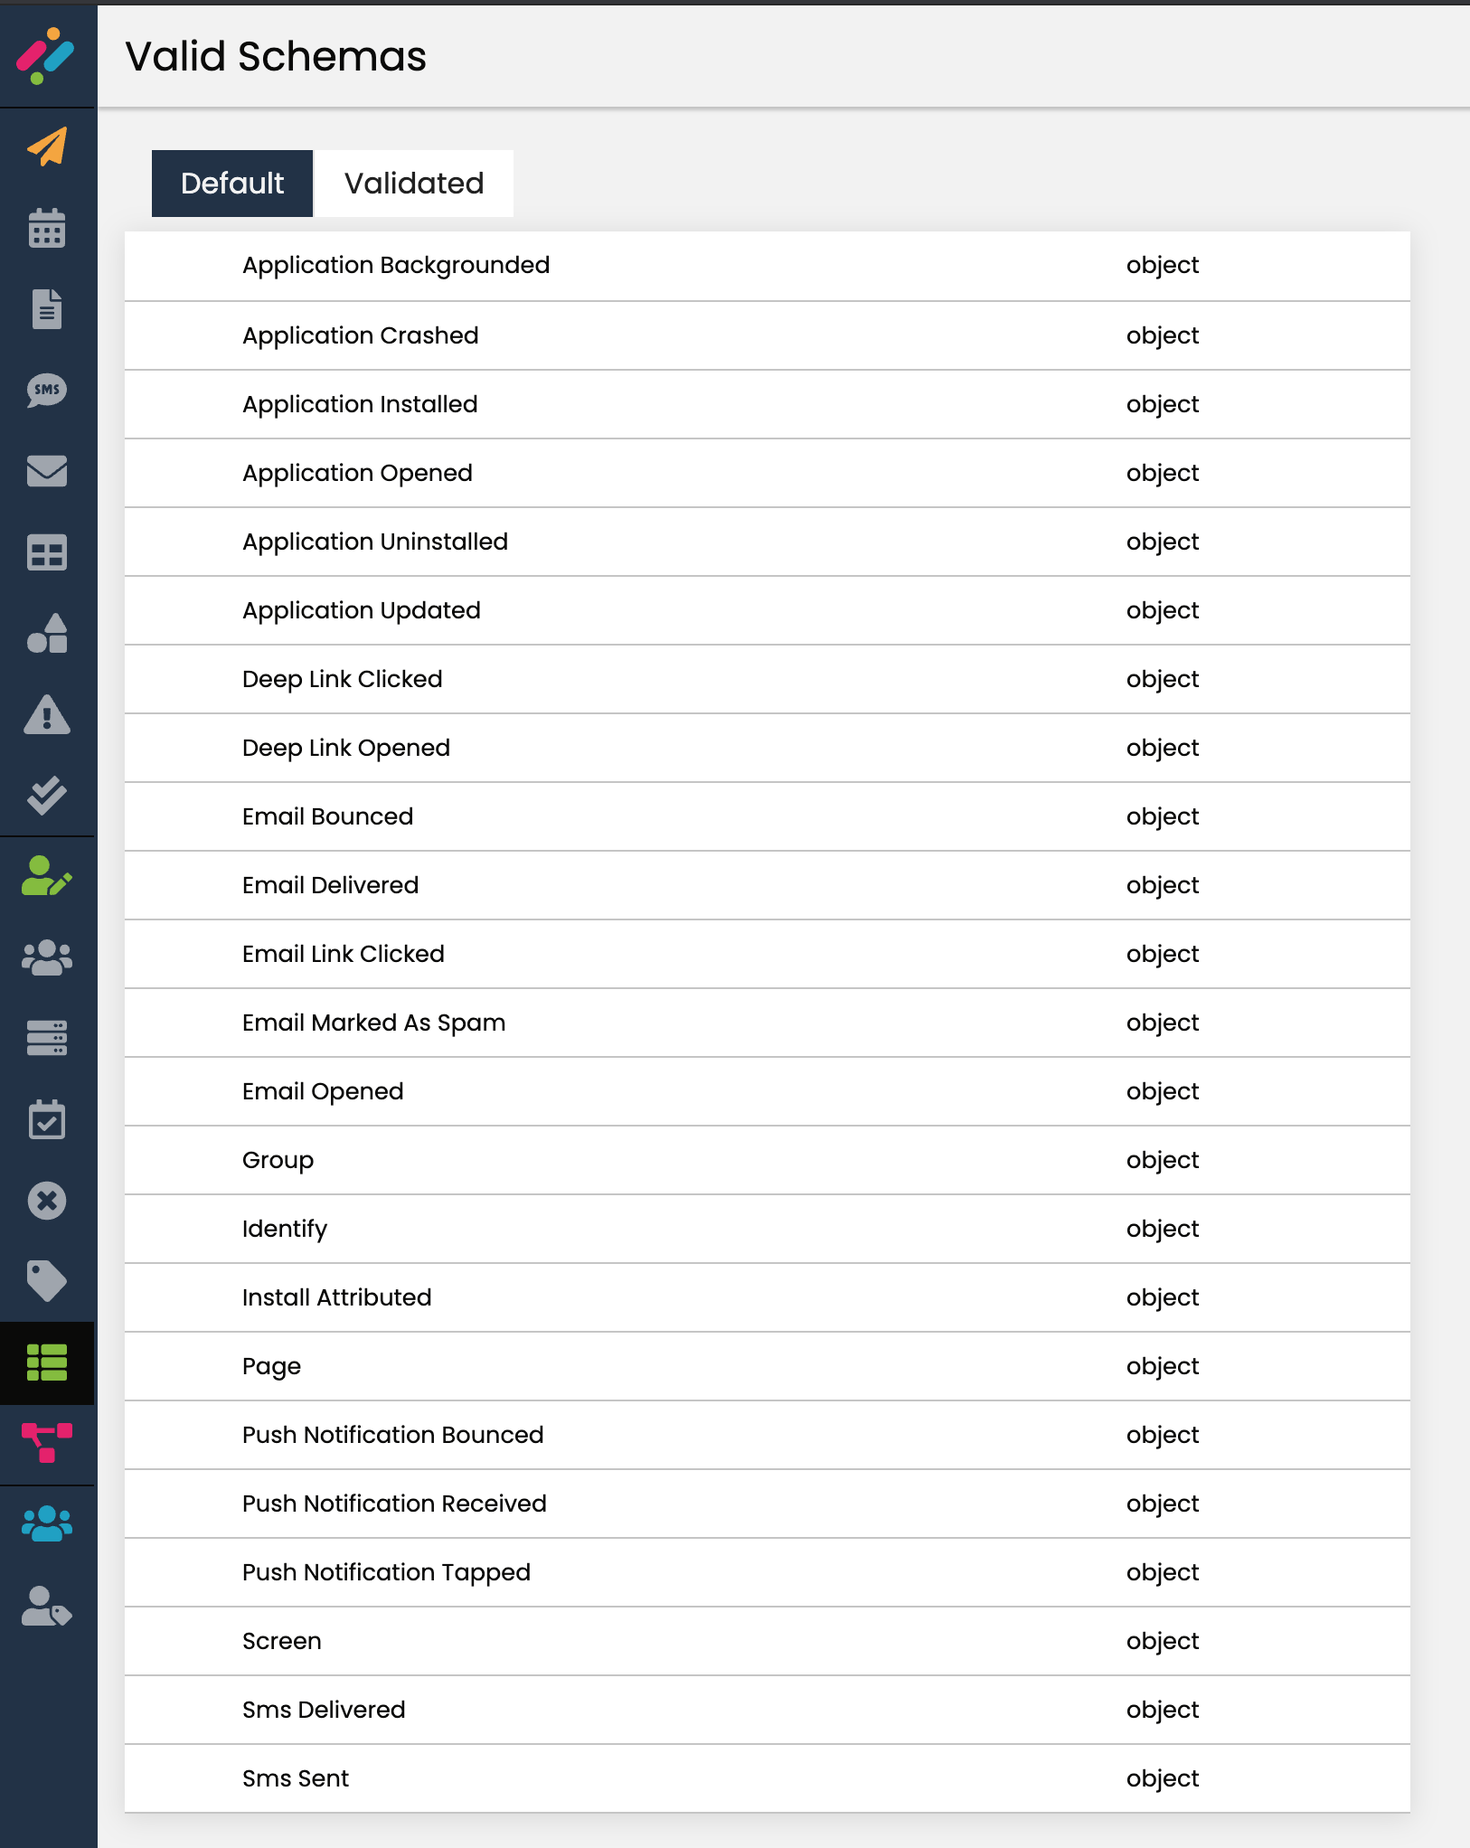
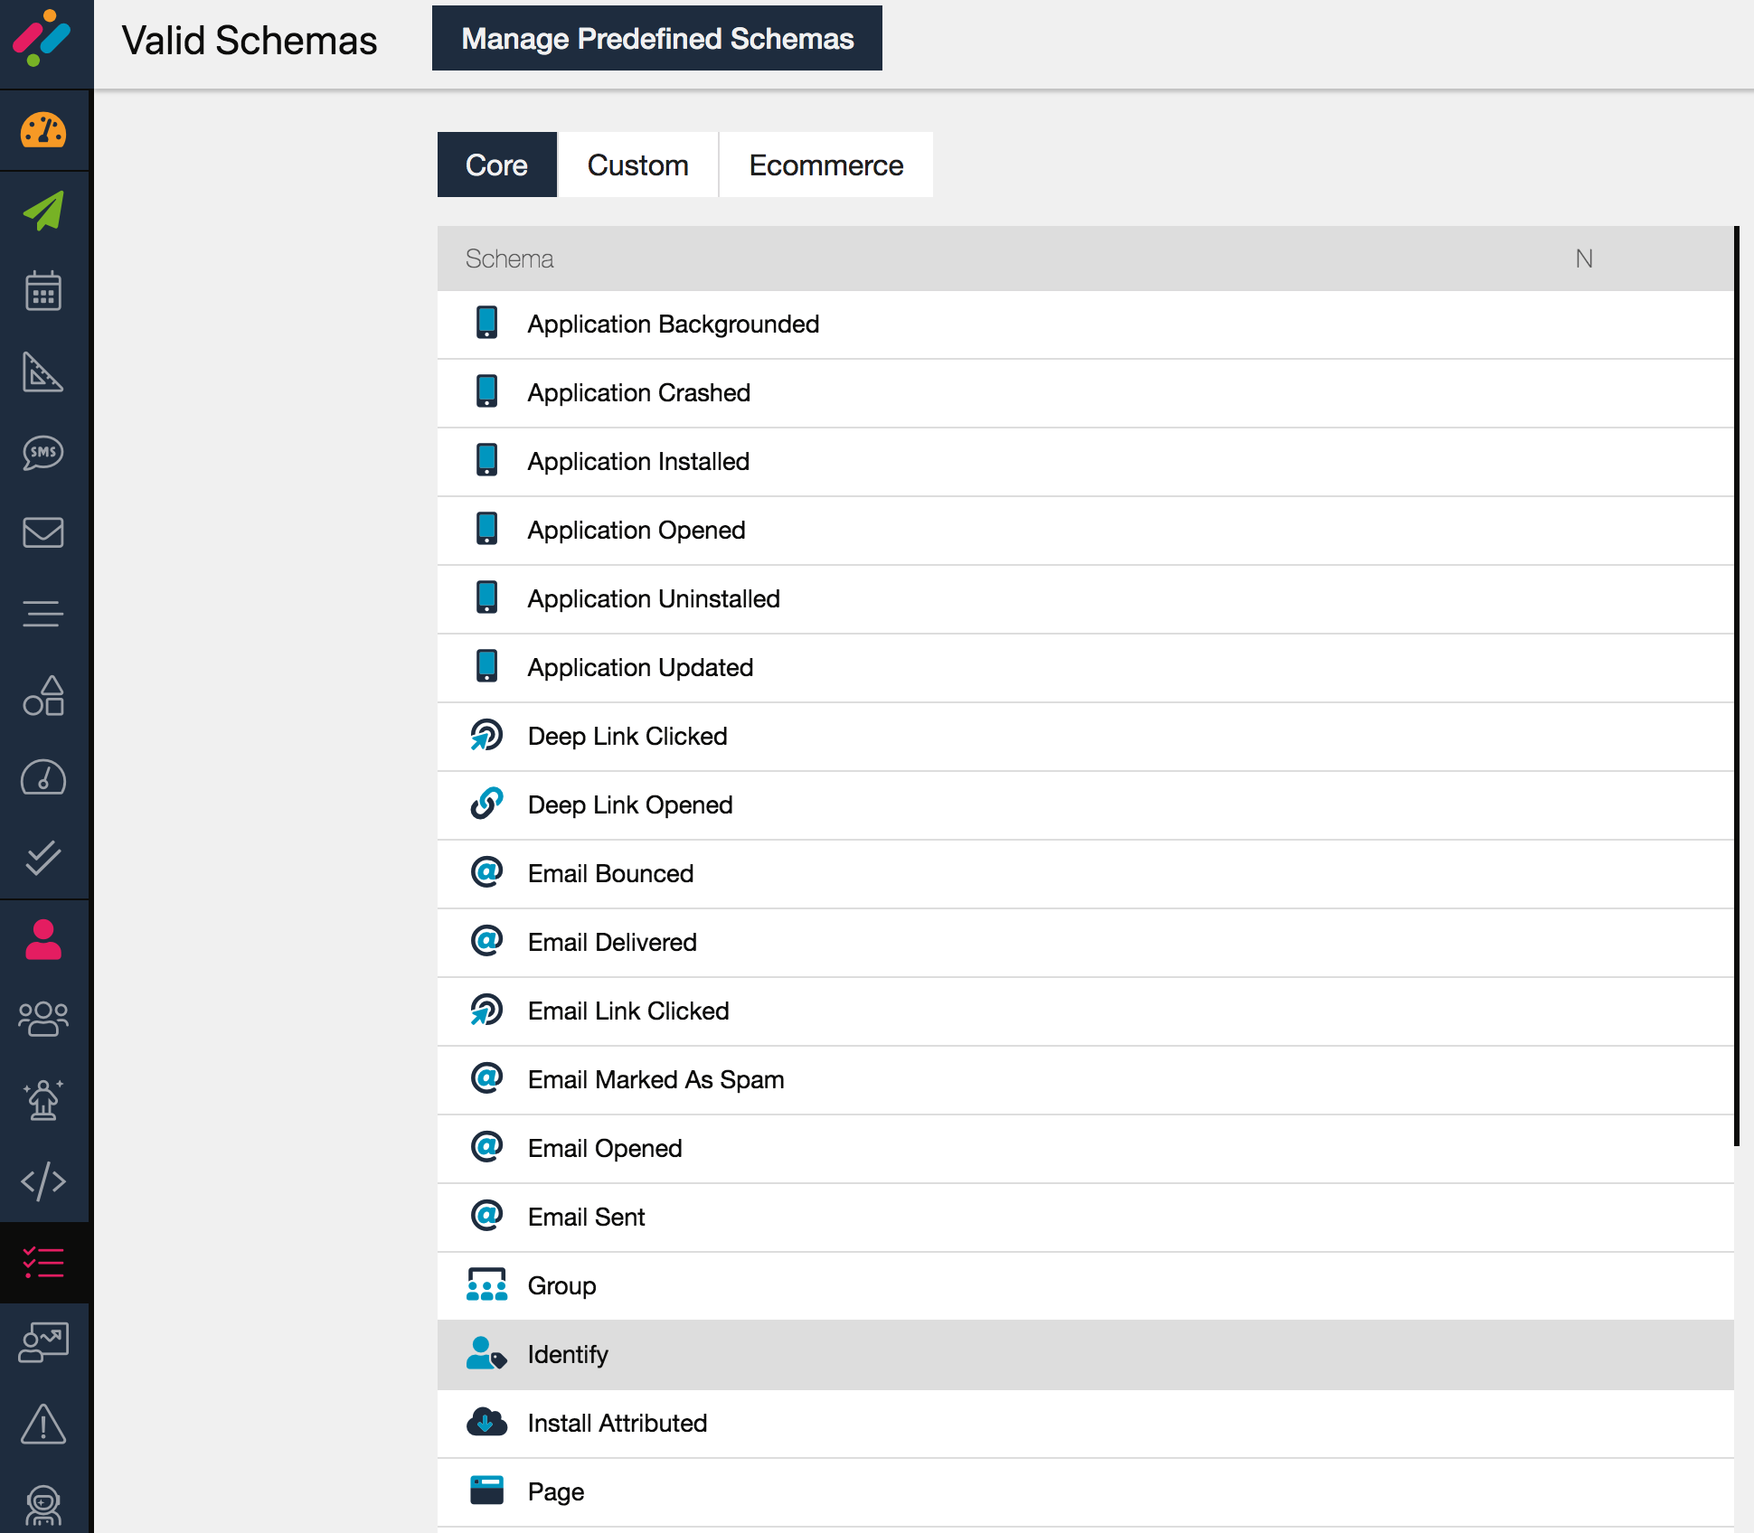
replaced Intielry with Intilery and updated images for schema management

Changed region(s): [[0.0, 0.0, 1.0, 1.0], [0.7688, 0.625, 0.8303, 0.7812]]

diff --git a/docs/schema/b2b.md b/docs/schema/b2b.md
@@ -14,16 +14,38 @@ Most B2B SaaS companies have a few common, core lifecycle events for users and a
 
 The B2B SaaS category has the following semantic events:
 
-- [Account Created](#account-created)
-- [Account Deleted](#account-deleted)
-- [Signed Up](#signed-up)
-- [Signed In](#signed-in)
-- [Signed Out](#signed-out)
-- [Invite Sent](#invite-sent)
-- [Account Added User](#account-added-user)
-- [Account Removed User](#account-removed-user)
-- [Trial Started](#trial-started)
-- [Trial Ended](#trial-ended)
+- [Overview](#overview)
+- [Events](#events)
+  - [Account Created](#account-created)
+    - [Properties](#properties)
+    - [Example](#example)
+  - [Account Deleted](#account-deleted)
+    - [Properties](#properties-1)
+    - [Example](#example-1)
+  - [Signed Up](#signed-up)
+    - [Properties](#properties-2)
+    - [Example](#example-2)
+  - [Signed In](#signed-in)
+    - [Properties](#properties-3)
+    - [Example](#example-3)
+  - [Signed Out](#signed-out)
+    - [Properties](#properties-4)
+    - [Example](#example-4)
+  - [Invite Sent](#invite-sent)
+    - [Properties](#properties-5)
+    - [Example](#example-5)
+  - [Account Added User](#account-added-user)
+    - [Properties](#properties-6)
+    - [Example](#example-6)
+  - [Account Removed User](#account-removed-user)
+    - [Properties](#properties-7)
+    - [Example](#example-7)
+  - [Trial Started](#trial-started)
+    - [Properties](#properties-8)
+    - [Example](#example-8)
+  - [Trial Ended](#trial-ended)
+    - [Properties](#properties-9)
+    - [Example](#example-9)
 
 ### Account Created
 
@@ -130,7 +152,7 @@ This event supports the following semantic properties:
 
 This event should be sent when a user signs in to your service.
 
-**Good to know**: Intielry’s best practice is to use an “Object-Action” naming convention, which in this case would be “User Signed In”. However, because in the B2B case this may not be a specific user, we omit that noun in our example. You may include or omit it as needed for your implementation.
+**Good to know**: Intilery best practice is to use an “Object-Action” naming convention, which in this case would be “User Signed In”. However, because in the B2B case this may not be a specific user, we omit that noun in our example. You may include or omit it as needed for your implementation.
 
 #### Properties
 
@@ -161,7 +183,7 @@ This event supports the following semantic properties:
 
 This event should be sent when a user signs out for your service. You should also call [`analytics.reset()`](/docs/tag/tag1#reset-or-logout) to refresh the cookie when a Signed Out event occurs.
 
-**Good to know**: Intielry’s best practice is to use an “Object-Action” naming convention, which in this case would be “User Signed Out”. However, because in the B2B case this may not be a specific user, we omit that noun in our example. You may include or omit it as needed for your implementation.
+**Good to know**: Intilery's best practice is to use an “Object-Action” naming convention, which in this case would be “User Signed Out”. However, because in the B2B case this may not be a specific user, we omit that noun in our example. You may include or omit it as needed for your implementation.
 
 #### Properties
 

diff --git a/docs/schema/mobile.md b/docs/schema/mobile.md
@@ -16,21 +16,39 @@ The Intilery Native Mobile Spec includes the following semantic events:
 
 **Application Lifecycle Events**
 
-- [Application Installed](#application-installed)
-- [Application Opened](#application-opened)
-- [Application Updated](#application-updated)
-- [Application Backgrounded](#application-backgrounded)
-- [Application Crashed](#application-crashed)
-- [Application Uninstalled](#application-uninstalled)
+- [Overview of Events](#overview-of-events)
+- [Lifecycle Events](#lifecycle-events)
+  - [Application Installed](#application-installed)
+  - [Application Opened](#application-opened)
+  - [Application Backgrounded](#application-backgrounded)
+  - [Application Updated](#application-updated)
+  - [Application Uninstalled](#application-uninstalled)
+  - [Application Crashed](#application-crashed)
+- [Campaign Events](#campaign-events)
+  - [Install Attributed](#install-attributed)
+  - [Push Notification Received](#push-notification-received)
+  - [Push Notification Tapped](#push-notification-tapped)
+  - [Push Notification Bounced](#push-notification-bounced)
+  - [Deep Link Opened](#deep-link-opened)
+  - [Deep Link Clicked](#deep-link-clicked)
 
 **Campaign Events**
 
-- [Push Notification Received](#push-notification-received)
-- [Push Notification Tapped](#push-notification-tapped)
-- [Push Notification Bounced](#push-notification-bounced)
-- [Install Attributed](#install-attributed)
-- [Deep Link Clicked](#deep-link-clicked)
-- [Deep Link Opened](#deep-link-opened)
+- [Overview of Events](#overview-of-events)
+- [Lifecycle Events](#lifecycle-events)
+  - [Application Installed](#application-installed)
+  - [Application Opened](#application-opened)
+  - [Application Backgrounded](#application-backgrounded)
+  - [Application Updated](#application-updated)
+  - [Application Uninstalled](#application-uninstalled)
+  - [Application Crashed](#application-crashed)
+- [Campaign Events](#campaign-events)
+  - [Install Attributed](#install-attributed)
+  - [Push Notification Received](#push-notification-received)
+  - [Push Notification Tapped](#push-notification-tapped)
+  - [Push Notification Bounced](#push-notification-bounced)
+  - [Deep Link Opened](#deep-link-opened)
+  - [Deep Link Clicked](#deep-link-clicked)
 
 We recommend using the above event names if you’re going to be integrating the events yourself. This will ensure that they can be mapped effectively in the CDP and Customer Engagement Platform
 
@@ -248,7 +266,7 @@ This event can be sent when a user taps on a push notification associated with y
 
 ### Push Notification Bounced
 
-This event fires when a push notification from a provider bounces. If your push notification provider forwards push lifecycle events to Intielry, they should include this event in their suite.
+This event fires when a push notification from a provider bounces. If your push notification provider forwards push lifecycle events to Intilery, they should include this event in their suite.
 
 ```javascript
 {

diff --git a/docs/schema/video.md b/docs/schema/video.md
@@ -4,7 +4,7 @@ title: Video
 sidebar_label: Video
 ---
 
-Intielry’s video spec helps you define how a customer is engaging with your video and ad content. The below documentation covers the naming syntax and conventions for how you should send events when tracking video analytics.
+Intilery's video spec helps you define how a customer is engaging with your video and ad content. The below documentation covers the naming syntax and conventions for how you should send events when tracking video analytics.
 
 ## Getting Started
 
@@ -645,7 +645,7 @@ For video destinations that require content metadata to be sent with ad events, 
 
 #### Quartile: `Integer`
 
-For Video Ad Playing events, this property can be set to indicate when a specific ad quartile has been reached (1,2, or 3). If you are using a Intielry client-side library to track your video events you do not need to send this property as our libraries will automatically track quartiles.
+For Video Ad Playing events, this property can be set to indicate when a specific ad quartile has been reached (1,2, or 3). If you are using a Intilery client-side library to track your video events you do not need to send this property as our libraries will automatically track quartiles.
 
 **Note:** Since some video destinations require sending Content metadata along with Ad metadata, you may need to send your content properties also in all your ad events under `properties.content` depending on the video destination you are using.
 

diff --git a/docs/guides/validate-schema.md b/docs/guides/validate-schema.md
@@ -11,11 +11,11 @@ Standard events, those detailed at [Intilery Default Schema](/docs/schema/intile
 
 Apart from the [default traits](/docs/schema/identify#traits) all additional traits will need to be validated before those traits are recognised.
 
-To access the schema for default events (schemas), and events (schemas) that you have validated, navigate to Schemas
+To access the schema for core events (schemas), and custom events (schemas) that you have validated, navigate to Schemas
 
 ![Schemas](/img/default-validate1.png)
 
-**Note:** The image above shows the schamas for default schemas and your validated schemas.
+**Note:** The image above shows the schamas for core schemas and your custom schemas.
 
 ### Adding traits
 
@@ -31,7 +31,7 @@ Schema viloation for the event are shown below in the event stream, clicking on 
 
 #### Schema View
 
-Schema viloation for the event are shown below in the schema view, clicking on the violation will show "new fields", where you can set the validation requirements and click "Add Field" to recognise this new trait
+Schema violation for the event are shown below in the schema view, clicking on the violation will show "new fields", where you can set the validation requirements and click the save button to recognise the new trait.
 
 **Note:** Don't forget to click "Save" at the bottom of the screen, new traits are not recorded until you validate and save them to the schema.
 

diff --git a/docs/sdk/android-faq.md b/docs/sdk/android-faq.md
@@ -24,9 +24,9 @@ Yes! You can use the Intilery library with Maven, or any other custom build syst
 </dependency>
 ```
 
-## How big is the Intielry SDK?
+## How big is the Intilery SDK?
 
-The core Intielry SDK is extremely lightweight! It contains just under 1k methods, the JAR weighs in at 123kb and the dex size is 113kb.
+The core Intilery SDK is extremely lightweight! It contains just under 1k methods, the JAR weighs in at 123kb and the dex size is 113kb.
 
 ## How can I swap out debugging and production keys?
 
@@ -72,4 +72,4 @@ Questions? Problems? Need more info? Contact us, and we can help!
 
 ## Why have you forked Segment?
 
-We forked the segment client libraries to give you the choice of using segment to send data to Intilery and a Segment destination, or if you do not use Segment you can send the data directly to Intielry with our forked libraries and SDKs. If in the future you decide to use Segment, the change should be as simple as using the Segment library/sdk instead of the Intilery library/sdk
+We forked the segment client libraries to give you the choice of using segment to send data to Intilery and a Segment destination, or if you do not use Segment you can send the data directly to Intilery with our forked libraries and SDKs. If in the future you decide to use Segment, the change should be as simple as using the Segment library/sdk instead of the Intilery library/sdk

diff --git a/docs/tag/gtm-dataLayer.md b/docs/tag/gtm-dataLayer.md
@@ -10,11 +10,11 @@ Google Tag Manager functions best when deployed alongside a data layer, if enabl
 
 [Data Layer](https://support.google.com/tagmanager/answer/6164391)
 
-To enable publishing of events to the GTM dataLayer, go to the tag page in Intielry, enable GTM dataLayer integration and enter the container-ID of your GTM container.
+To enable publishing of events to the GTM dataLayer, go to the tag page in Intilery, enable GTM dataLayer integration and enter the container-ID of your GTM container.
 
 ## Identify
 
-If you’re not familiar with the Intielry Schema, take a look to understand what the [Identify method](/docs/schema/identify) does. An example call would look like:
+If you’re not familiar with the Intilery Schema, take a look to understand what the [Identify method](/docs/schema/identify) does. An example call would look like:
 
 ```javascript
 analytics.identify({
@@ -90,7 +90,7 @@ will result an identify event being sent to the dataLayer, e.g.
 
 ## Track
 
-If you’re not familiar with the Intielry Schema, take a look to understand what the [Track method](/docs/schema/track) does. An example call would look like:
+If you’re not familiar with the Intilery Schema, take a look to understand what the [Track method](/docs/schema/track) does. An example call would look like:
 
 ```javascript
 analytics.track('Article Completed', {

diff --git a/docs/guides/validate.md b/docs/guides/validate.md
@@ -109,20 +109,20 @@ There are no options to validate booleans, you must pass in true or false (no qu
 
 ![arrays](/img/arrays.png)
 
-***Note:*** It is not currently possible to apply validation to objects within an array, Intielry will recognise the properties of objects within an array and make them available in [audiences](/docs/customers/audiences) and [computed traits](/docs/customers/computed-traits)
+***Note:*** It is not currently possible to apply validation to objects within an array, Intilery will recognise the properties of objects within an array and make them available in [audiences](/docs/customers/audiences) and [computed traits](/docs/customers/computed-traits)
 
 ## Schema
 
 All events and their properties can be accessed in the schema section of Intilery, 
 
-### Default events
+### Core
 
-These are the defaul events that the Intilery tag, or SDKs record, these cannot be edited
+These are the core events recorded via the Intilery tag or SDKs.
 
 ![default](/img/default.png)
 
-### Validated Events
+### Custom
 
-These are the events thay you have added as validated schema's. Any recent new fields that require your action are detailed here
+These are the events thay you have added and approved. Any recent new fields that require your action will also be shown.
 
 ![your](/img/your.png)

diff --git a/docs/sdk/ios-trouble.md b/docs/sdk/ios-trouble.md
@@ -30,7 +30,7 @@ This was due to an old [CocoaPods limitation](https://github.com/CocoaPods/Cocoa
 1. Verify you have followed all [Getting Started](./ios#getting-started) steps
 2. Verify you have entered the correct writeKey for your source
    - If the writeKey you have entered is something other than a string or an empty string your app may crash
-   - If the writeKey you have entered is a valid form but is not the correct value, Intielry will return an error
+   - If the writeKey you have entered is a valid form but is not the correct value, Intilery will return an error
 3. [Enable logging](./ios#logging) to confirm if call is being sent to Intilery
 
 ## Still having issues?
@@ -39,5 +39,5 @@ Contact [Intilery Product Support](email:support@intilery.com) with the followin
 
 - The version of our SDK you are using
 - Logs of the call in question
-- Screenshots of the event in the Intielry Events debugger
+- Screenshots of the event in the Intilery Events debugger
 

diff --git a/docs/sdk/ios-faq.md b/docs/sdk/ios-faq.md
@@ -140,4 +140,4 @@ We now supports tvOS, macOS and Catalyst as well. You can follow the [quickstart
 
 ## Why have you forked Segment?
 
-We forked the segment client libraries to give you the choice of using segment to send data to Intilery and a Segment destination, or if you do not use Segment you can send the data directly to Intielry with our forked libraries and SDKs. If in the future you decide to use Segment, the change should be as simple as using the Segment library/sdk instead of the Intilery library/sdk
+We forked the segment client libraries to give you the choice of using segment to send data to Intilery and a Segment destination, or if you do not use Segment you can send the data directly to Intilery with our forked libraries and SDKs. If in the future you decide to use Segment, the change should be as simple as using the Segment library/sdk instead of the Intilery library/sdk

diff --git a/docs/apis/profile.md b/docs/apis/profile.md
@@ -158,7 +158,7 @@ curl "https://tracking.intilery.com/track/{clientId}/{accountId}/{BRANDID}/v1/pr
 
 ### Errors
 
-Intilery uses conventional HTTP response codes to indicate the success or failure of an API request. In general, codes in the `2xx` range indicate success, codes in the `4xx` range indicate an error that failed given the information provided (e.g., a required parameter was omitted, etc.), and codes in the `5xx`Intielry's servers.
+Intilery uses conventional HTTP response codes to indicate the success or failure of an API request. In general, codes in the `2xx` range indicate success, codes in the `4xx` range indicate an error that failed given the information provided (e.g., a required parameter was omitted, etc.), and codes in the `5xx` Intilery's servers.
 
 **HTTP Status**
 

diff --git a/docs/schema/email.md b/docs/schema/email.md
@@ -4,7 +4,7 @@ title: Email Schema
 sidebar_label: Email
 ---
 
-Emails sent using the Intilery platform will automatically capture all events described here, if you wish to use a different Email Service Provider, you should ensure that the ESP can send the required events to the Intielry CDP.
+Emails sent using the Intilery platform will automatically capture all events described here, if you wish to use a different Email Service Provider, you should ensure that the ESP can send the required events to the Intilery CDP.
 
 The semantic events detailed below represent the ideal for Email events and what Intilery provides by default; not every Email tool supports all of these events or all of their properties.
 

diff --git a/docs/sdk/android-push.md b/docs/sdk/android-push.md
@@ -20,7 +20,7 @@ For each customer device you will need to send the FCM token and optional device
 
 ### Registering Android
 
-Once you have completed the steps at [setting up Andoid notifications](https://firebase.google.com/docs/cloud-messaging/android/client) you can implement the firebase code and Intielry identify code to register the device to the customer.
+Once you have completed the steps at [setting up Andoid notifications](https://firebase.google.com/docs/cloud-messaging/android/client) you can implement the firebase code and Intilery identify code to register the device to the customer.
 
 #### Java
 
